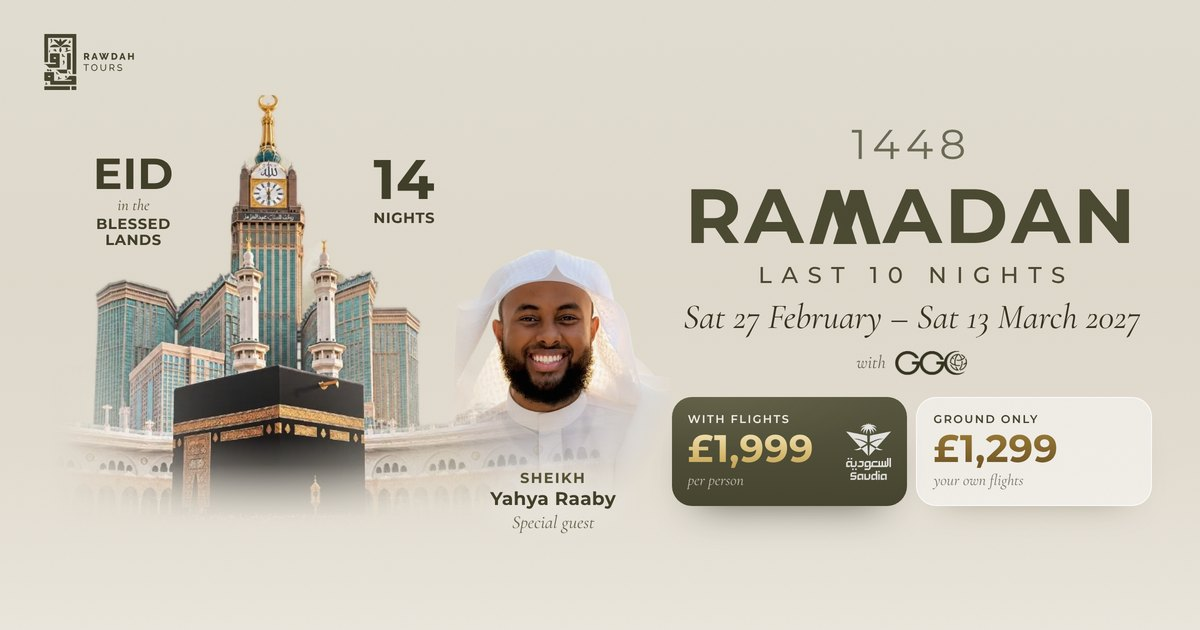
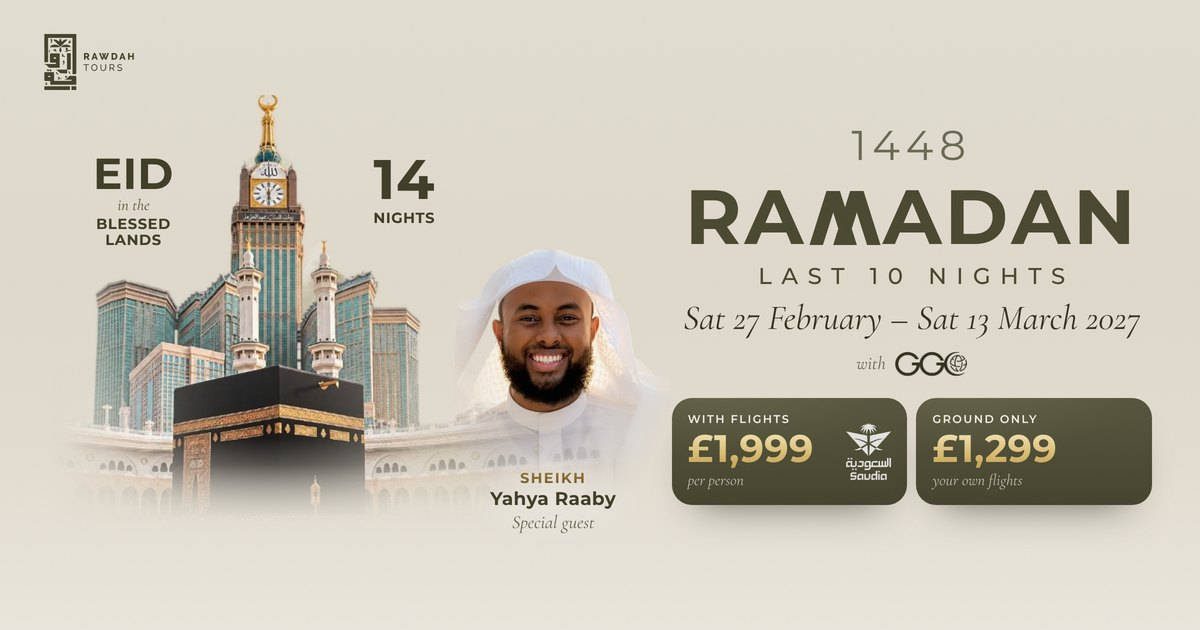
Hero: "Sheikh" in gold, ground only on the same olive as with flights; preview remade
Claude-Session: https://claude.ai/code/session_013xXjSaaGAVLX8VaZzFTHcm

diff --git a/src/app/globals.css b/src/app/globals.css
@@ -1713,9 +1713,10 @@ html.motion .fb-item.rv.in .fb-text { opacity: 1; transform: none; }
 .rl-flights .rl-sub { color: rgb(241 238 230 / 0.72); }
 .rl-saudia { width: 2.4rem; height: auto; flex: none; filter: brightness(0) invert(1); opacity: 0.85; }
 .rl-k { white-space: nowrap; }
-.rl-ground { color: #45442e; background: rgb(255 255 255 / 0.5); border: 1px solid rgb(255 255 255 / 0.85); box-shadow: 0 18px 34px -28px rgb(60 48 20 / 0.5); }
-.rl-ground .rl-price { background-image: linear-gradient(180deg, #9a7b36 0%, #6f5424 100%); }
-.rl-ground .rl-sub { color: rgb(51 50 31 / 0.66); }
+/* Ground only matches with flights (Jibril, 20 Nov 2026): the same olive tile, the same gold figure. */
+.rl-ground { color: #f1eee6; background: radial-gradient(120% 90% at 20% 0%, rgb(255 236 180 / 0.08) 0%, transparent 60%), linear-gradient(180deg, #57563f 0%, #45442e 100%); box-shadow: 0 22px 40px -26px rgb(37 36 24 / 0.75); }
+.rl-ground .rl-price { background-image: linear-gradient(180deg, #f6e8bb 0%, #dcbf76 60%, #c4a254 100%); }
+.rl-ground .rl-sub { color: rgb(241 238 230 / 0.72); }
 .rl-book { display: inline-flex; width: 100%; min-height: 3.4rem; align-items: center; justify-content: center; gap: 0.5rem; border-radius: 1rem; font-size: 1rem; font-weight: 500; }
 .rl-note { display: flex; flex-wrap: wrap; justify-content: center; font-size: 0.86rem; line-height: 1.5; color: rgb(from var(--color-ink) r g b / 0.7); }
 @media (max-width: 23.99rem) { .rl-saudia { display: none; } }
@@ -1723,7 +1724,8 @@ html.motion .fb-item.rv.in .fb-text { opacity: 1; transform: none; }
 .rl .rh-price { justify-items: center; }
 .rl .poster-lockup { color: #4a4931; }
 .rl .poster-lockup .poster-kicker { color: #6b6a55; }
-.rl .poster-role { color: #545234; }
+/* "SHEIKH" over Sheikh Yahya's name in gold (Jibril, 20 Nov 2026), the deep gilt that reads on stone. */
+.rl .poster-role { background-image: linear-gradient(180deg, #9a7b36 0%, #6f5424 100%); -webkit-background-clip: text; background-clip: text; color: transparent; -webkit-text-fill-color: transparent; }
 @media (min-width: 64rem) {
   .rl { padding-bottom: 1.5rem; }
   .rl-grid { grid-template-columns: minmax(0, 1.1fr) minmax(0, 0.9fr); grid-template-areas: "art head" "art foot"; column-gap: clamp(1.5rem, 3vw, 3rem); align-items: center; min-height: calc(100svh - 5.3rem - 1.5rem); padding: 1rem var(--hero-pad-x); }

diff --git a/docs/adr/0006-the-garden.md b/docs/adr/0006-the-garden.md
@@ -266,3 +266,5 @@ our writing in gold look like The Umrah Company"), agreed to the cuts, and asked
   about 20 screens, down from 26.
 - **Fixes before merging**: the feature band showed twice on desktop (its phone copy wasn't hidden); the link preview
   is now the hero itself (`shareImage`, site-wide `opengraph-image.jpg`; `scripts/share-image.py` remakes it).
+- **Hero touches** (same day): "SHEIKH" over Sheikh Yahya's name in the deep gilt; the ground-only tile matches the
+  with-flights one (olive, gold figure). The link preview was remade to match.
